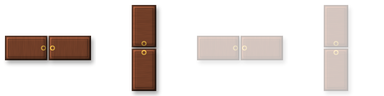
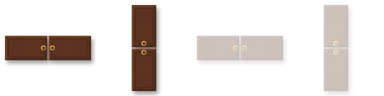
feat(art): doors in the walls' style — hard facets per part, no outline, darker; bamboo floor smoke-darkened to stand off its walls

Changed region(s): [[0.3438, 0.0312, 0.4062, 0.9688], [0.0, 0.375, 0.25, 0.625]]

diff --git a/Global/Asset/Structure/make_doors.py b/Global/Asset/Structure/make_doors.py
@@ -1,4 +1,4 @@
-"""Door sheets in RimWorld's style, as the walls (make_walls.py): a leaf across the gap between the two posts beside
+"""Door sheets in the walls' style (make_walls.py: hard bevel per part, no outline, the darker palette): a leaf across the gap between the two posts beside
 it, seen from above. 4 tiles of 96 px (1.5 cells at 64 px a cell): horizontal closed, vertical closed, horizontal
 open, vertical open; open is the closed leaf see-through.
 usage: python make_doors.py [key ...]      (needs Pillow, numpy)"""
@@ -8,7 +8,7 @@ import sys
 import numpy as np
 from PIL import Image
 
-from make_walls import SS, blur, erode
+from make_walls import DARKEN, SS, blur, erode
 
 HERE = os.path.dirname(os.path.abspath(__file__))
 CELL = 64
@@ -45,35 +45,39 @@ def grain(seed):
 
 
 def leaf_bamboo(half):
-    """Three bamboo poles lying along the door, lashed at both ends, a node ring every third of a cell."""
+    """Three bamboo poles lying along the door, each its own part, lashed at both ends, a node ring every third of a
+    cell; the bamboo wall's weathered colour."""
     y, x = np.mgrid[0:D, 0:D] + 0.5
     m = rect(C - LENGTH * U / 2, C - half * U, C + LENGTH * U / 2, C + half * U)
     w = 2 * half * U / 3
     v = (y - (C - half * U)) / w
     fv = v - np.floor(v)
-    round_ = 0.78 + 0.32 * np.sin(np.clip(fv, 0, 1) * np.pi)           # each pole rounded across
-    colour = np.array((180, 156, 94), np.float32) * (round_ * grain(5))[..., None]
-    split = np.minimum(fv, 1 - fv) * w < 0.8 * SS
-    colour[(split & (m > 0))] *= 0.55
+    round_ = 0.80 + 0.30 * np.sin(np.clip(fv, 0, 1) * np.pi)           # each pole rounded across
     node = np.abs(((x - C) / (U / 3) + 0.5) % 1 - 0.5) * (U / 3) < 0.9 * SS
-    colour[(node & (m > 0))] *= 0.75
+    seam = (np.minimum(fv, 1 - fv) * w < 0.7 * SS) & (m > 0)
+    parts = []
+    for k in range(3):
+        pole = m * (np.floor(v) == k) * ~seam
+        colour = np.array((150, 130, 88), np.float32) * DARKEN * (round_ * grain(5 + k) * (0.92 + 0.08 * k))[..., None]
+        colour[node] *= 0.74
+        parts.append((pole, colour))
     for sx in (-0.5, 0.5):
         lash = rect(C + sx * U - 1.6 * SS, C - half * U, C + sx * U + 1.6 * SS, C + half * U)
-        colour[lash > 0] = (110, 84, 52)
-    return [(m, colour)]
+        parts.append((lash, np.zeros((D, D, 3), np.float32) + np.array((96, 74, 48), np.float32) * DARKEN))
+    return parts
 
 
 def leaf_wood(half):
-    """A plank door: boards along it, two dark iron straps across."""
-    m = rect(C - LENGTH * U / 2, C - half * U, C + LENGTH * U / 2, C + half * U)
-    colour = np.array((136, 96, 60), np.float32) * grain(3)[..., None]
+    """A plank door: two boards along it, each its own part, two dark iron straps across."""
     y, x = np.mgrid[0:D, 0:D] + 0.5
-    seam = np.exp(-((y - C) / (0.8 * SS)) ** 2) * 0.35
-    colour *= (1 - seam)[..., None]
+    parts = []
+    for k, (y0, y1) in enumerate(((C - half * U, C - 0.4 * SS), (C + 0.4 * SS, C + half * U))):
+        board = rect(C - LENGTH * U / 2, y0, C + LENGTH * U / 2, y1)
+        parts.append((board, np.array((136, 96, 60), np.float32) * DARKEN * (grain(3 + k) * (0.95 + 0.08 * k))[..., None]))
     for sx in (-0.33, 0.33):
         strap = rect(C + sx * U - 2.2 * SS, C - half * U, C + sx * U + 2.2 * SS, C + half * U)
-        colour[strap > 0] = (70, 64, 58)
-    return [(m, colour)]
+        parts.append((strap, np.zeros((D, D, 3), np.float32) + np.array((70, 64, 58), np.float32)))
+    return parts
 
 
 def leaf_carved(half):
@@ -83,15 +87,13 @@ def leaf_carved(half):
     for side in (-1, 1):
         x0, x1 = (C - LENGTH * U / 2, C - 0.6 * SS) if side < 0 else (C + 0.6 * SS, C + LENGTH * U / 2)
         m = rect(x0, C - half * U, x1, C + half * U)
-        colour = np.array((112, 62, 40), np.float32) * grain(7 + side)[..., None]
+        colour = np.array((112, 62, 40), np.float32) * DARKEN * grain(7 + side)[..., None]
         inner = rect(x0 + 3.5 * SS, C - half * U + 3.5 * SS, x1 - 3.5 * SS, C + half * U - 3.5 * SS)
-        border = m * (1 - inner)
         groove = rect(x0 + 3 * SS, C - half * U + 3 * SS, x1 - 3 * SS, C + half * U - 3 * SS) * (1 - inner)
-        colour[border > 0] *= 1.12
-        colour[groove > 0] *= 0.62
-        ring = disc(C + side * 4.5 * SS, C, 2.6 * SS) * (1 - disc(C + side * 4.5 * SS, C, 1.4 * SS))
-        colour[ring > 0] = (196, 150, 60)
+        colour[groove > 0] *= 0.66
         out.append((m, colour))
+        ring = disc(C + side * 4.5 * SS, C, 2.6 * SS) * (1 - disc(C + side * 4.5 * SS, C, 1.4 * SS))
+        out.append((ring, np.zeros((D, D, 3), np.float32) + np.array((196, 150, 60), np.float32)))
     return out
 
 
@@ -101,26 +103,35 @@ LENGTH = 1.0                    # set per door in sheet(): the gap between the p
 
 
 def render(parts, vertical, alpha):
-    """Light, edge and shadow each part in image space (so a vertical door is lit from the top-left too)."""
+    """Each part given the walls' hard bevel in image space (so a vertical door is lit from the top-left too), no
+    outline, a faint shadow."""
     if vertical:
         parts = [(m.T, c.transpose(1, 0, 2)) for m, c in parts]
     shape = np.zeros((D, D), np.float32)
     col = np.zeros((D, D, 3), np.float32)
     for m, c in parts:
-        s = blur(m, 2.0 * SS)
-        k = int(1.4 * SS)
-        light = 1.0 - 0.9 * (shift_d(s, k, k) - shift_d(s, -k, -k))
-        cc = c * light[..., None]
-        ring = (m > 0) & ~(erode(m, 1.5 * SS) > 0)
-        cc[ring] *= 0.42
+        cc = c * facets_d(m)[..., None]
         col = np.where(m[..., None] > 0, cc, col)
         shape = np.maximum(shape, m)
-    shadow = blur(shift_d(shape, 3 * SS, 2 * SS), 2.0 * SS) * 0.35 * (1 - shape)
+    shadow = blur(shift_d(shape, 3 * SS, 2 * SS), 2.0 * SS) * 0.40 * (1 - shape)
     out = np.zeros((D, D, 4), np.float32)
     out[..., :3] = col
     out[..., 3] = np.maximum(shape, shadow) * 255 * alpha
     im = Image.fromarray(np.clip(out, 0, 255).astype(np.uint8), "RGBA")
     return im.resize((TILE, TILE), Image.LANCZOS)
+
+
+def facets_d(mask, width=2.0):
+    """make_walls.facets on the door's canvas: a lit band along a part's top-left edges, a dark one bottom-right."""
+    s = blur(mask, 1.0 * SS)
+    gx = shift_d(s, 0, -1) - shift_d(s, 0, 1)
+    gy = shift_d(s, -1, 0) - shift_d(s, 1, 0)
+    facing = (gx + gy) / (np.hypot(gx, gy) * 1.4142 + 1e-6)
+    band = (mask > 0) & ~(erode(mask, width * SS) > 0)
+    out = np.ones(mask.shape, np.float32)
+    out[band & (facing > 0.35)] = 1.16
+    out[band & (facing < -0.35)] = 0.78
+    return out
 
 
 def shift_d(a, dy, dx):
